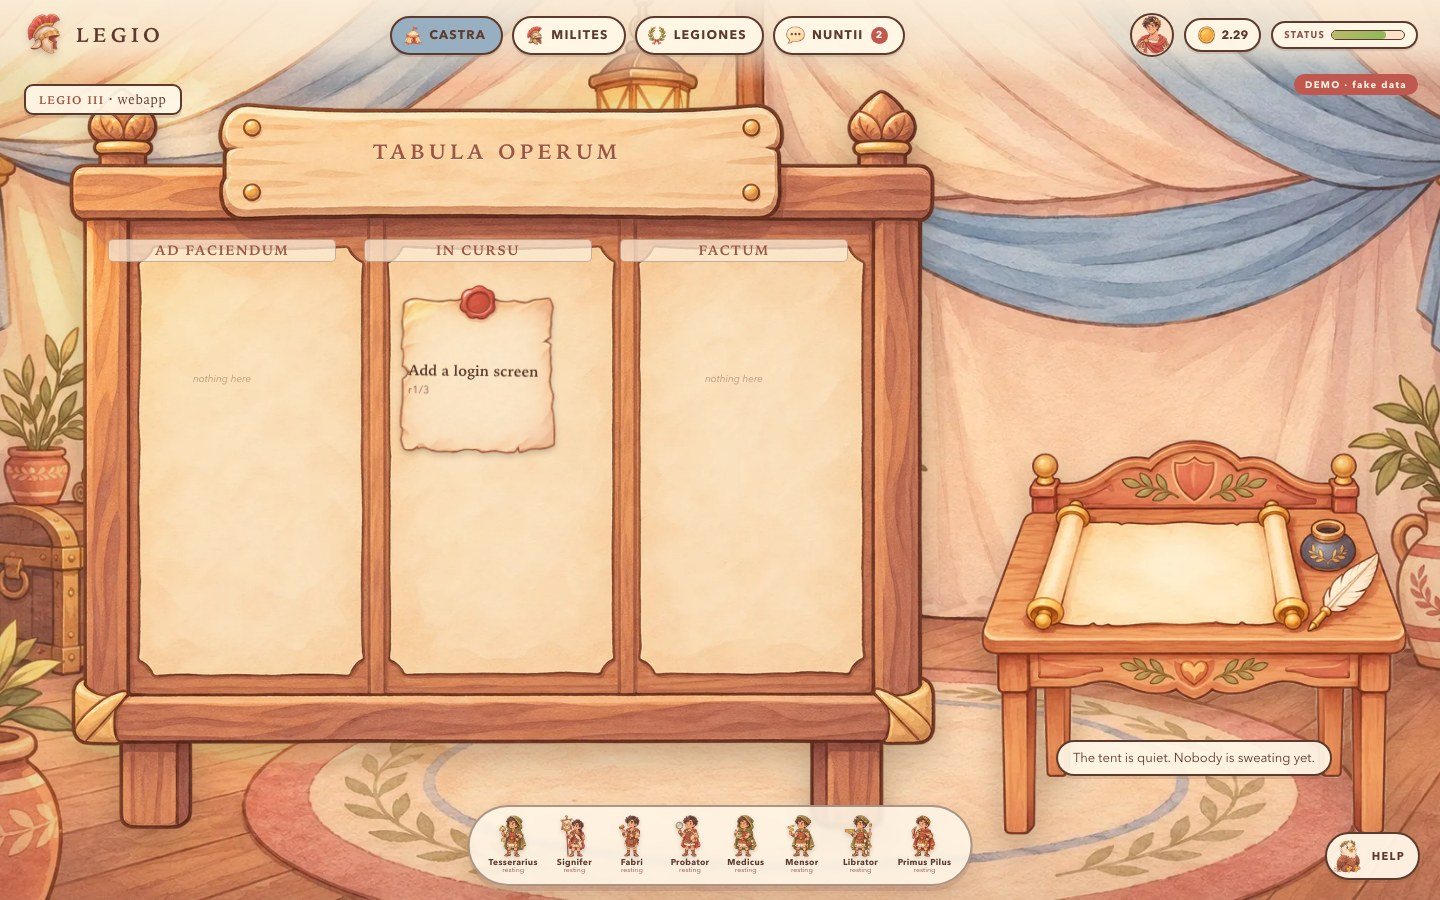
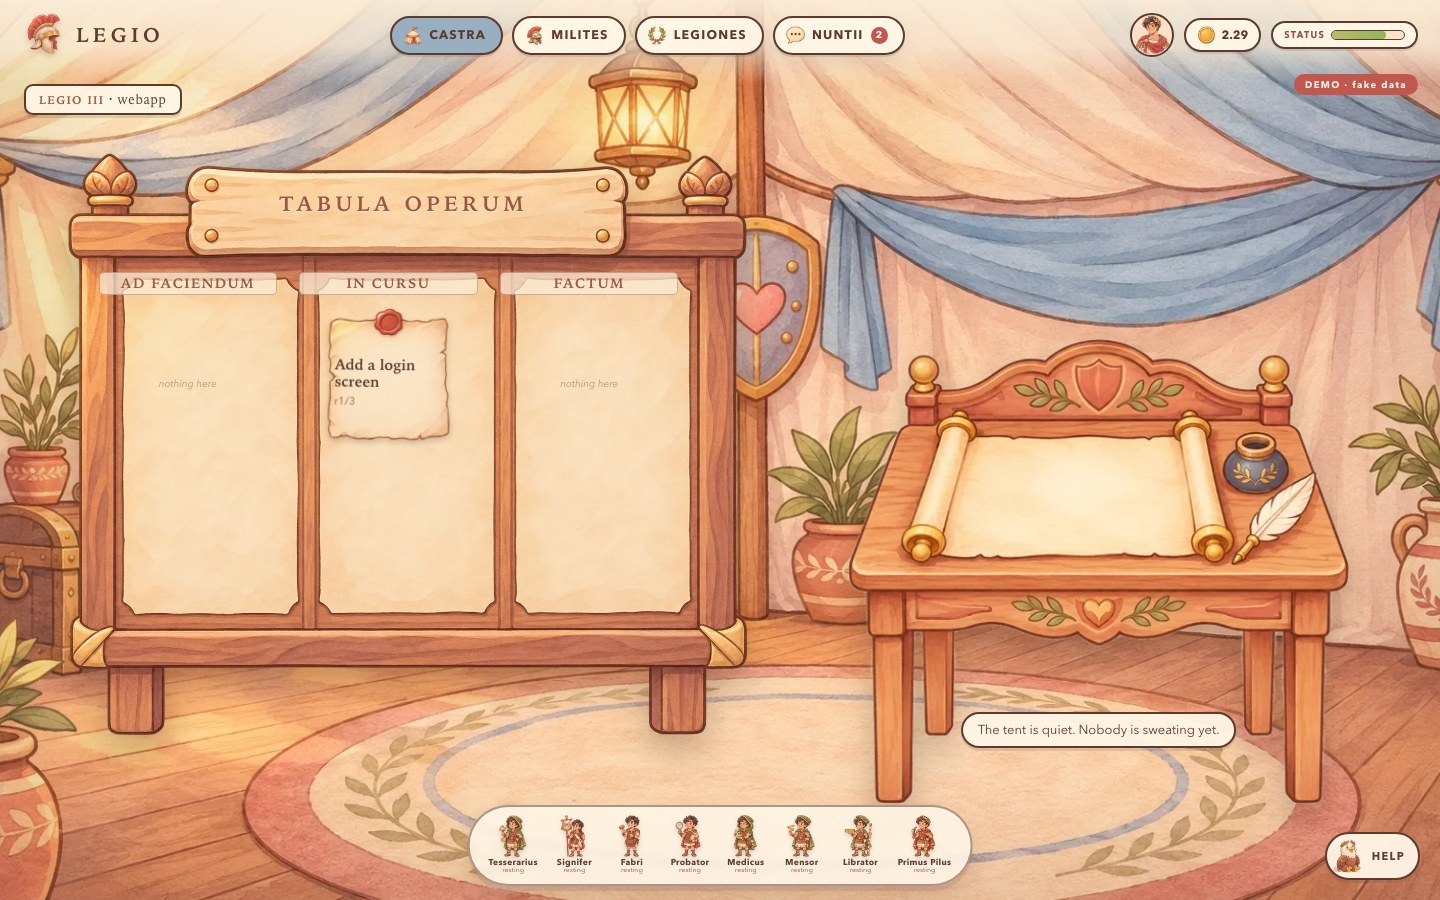
web: back to the reference tent layout, with a large job panel
Restore the proportions from the reference: the board takes about 55% of the
tent layout and the desk plus the working role about 45%, larger than the
enlarged-board pass but still readable (the notes keep the bigger type). The
quiet desk is larger too.

Clicking a note — or opening #/legion/<name>/job/<id> — now opens a wide job
panel: stage, round, gate, PR, cost, what waits on a human and every review
verdict, with a back link and the job id. No new art is needed for it: it is
the same parchment palette in CSS. Screenshots (tent, quiet, job) refreshed.

diff --git a/web/app.js b/web/app.js
@@ -432,8 +432,9 @@ function renderCast(project) {
 
 /* ---------------------------------------------------------------- modals */
 
-function openModal(html) {
+function openModal(html, wide = false) {
   modal.hidden = false;
+  $('.modal-card').classList.toggle('wide', wide);
   $('.modal-body').innerHTML = html;
 }
 
@@ -488,8 +489,10 @@ function showJob(jobId) {
   if (!found) return;
   const { project, job } = found;
   const reviews = Object.entries(job.reviews || {});
-  openModal(`<h2 class="modal-title">${esc(job.title)}</h2>
-    <p class="modal-sub">${esc(project.name)} · ${esc(job.id)} · #${esc(job.issue)}</p>
+  openModal(`<div class="job-panel" data-project="${esc(project.name)}">
+    <p class="job-kicker">TABULA · ${esc(project.name)} · job ${esc(job.id)}</p>
+    <h2 class="modal-title">${esc(job.title)}</h2>
+    <p class="modal-sub">issue #${esc(job.issue)}${job.pr ? ` · PR #${esc(job.pr)}` : ''}</p>
     <dl class="modal-facts">
       <div><dt>stage</dt><dd>${esc(job.stage)}</dd></div>
       <div><dt>round</dt><dd>${esc(job.round)}/${esc(job.round_limit)}</dd></div>
@@ -500,7 +503,11 @@ function showJob(jobId) {
     </dl>
     ${reviews.length ? `<h3 class="modal-h3">reviews</h3><ul class="modal-list">${
   reviews.map(([role, verdict]) => `<li><b>${esc(role)}</b><span>${esc(verdict)}</span></li>`).join('')}</ul>` : ''}
-    <p><a class="modal-link" href="#/legion/${enc(project.name)}">open the tent →</a></p>`);
+    <div class="job-foot">
+      <a class="modal-link" href="#/legion/${enc(project.name)}">← back to the tent</a>
+      <span class="job-id">${esc(job.id)}</span>
+    </div>
+  </div>`, true);
 }
 
 function showRole(role) {
@@ -520,6 +527,8 @@ function parseRoute() {
   if (!raw || raw === '/') return { view: 'camp' };
   let match = raw.match(/^\/legion\/([^/]+)\/cast$/);
   if (match) return { view: 'cast', name: match[1] };
+  match = raw.match(/^\/legion\/([^/]+)\/job\/([^/]+)$/);
+  if (match) return { view: 'tent', name: match[1], job: match[2] };
   match = raw.match(/^\/legion\/([^/]+)$/);
   if (match) return { view: 'tent', name: match[1] };
   return { view: 'camp' };
@@ -535,8 +544,12 @@ function render() {
   const project = state.data.projects.find((p) => p.name === state.route.name);
   if (!project) { location.hash = '#/'; return; }
   if (!project.ok) { renderTentError(project); return; }
-  if (state.route.view === 'cast') renderCast(project);
-  else renderTent(project);
+  if (state.route.view === 'cast') {
+    renderCast(project);
+    return;
+  }
+  renderTent(project);
+  if (state.route.job) showJob(state.route.job);
 }
 
 function fingerprint(data) {
@@ -595,7 +608,12 @@ document.addEventListener('click', (event) => {
     return;
   }
   const noteButton = event.target.closest('[data-job]');
-  if (noteButton) { showJob(noteButton.dataset.job); return; }
+  if (noteButton) {
+    const name = state.route.name;
+    if (name) location.hash = `#/legion/${enc(name)}/job/${enc(noteButton.dataset.job)}`;
+    else showJob(noteButton.dataset.job);
+    return;
+  }
   const roleButton = event.target.closest('[data-role-detail]');
   if (roleButton) showRole(roleButton.dataset.roleDetail);
 });

diff --git a/web/styles.css b/web/styles.css
@@ -440,12 +440,12 @@ a { color: inherit; }
 
 .tent-layout {
   position: absolute;
-  inset: 74px 0 88px 0;
+  inset: 78px 0 94px 0;
   z-index: 10;
   display: grid;
-  grid-template-columns: minmax(0, 68%) minmax(0, 32%);
-  gap: 0;
-  padding: 0 1.6%;
+  grid-template-columns: minmax(0, 55%) minmax(0, 45%);
+  gap: 1%;
+  padding: 0 2.2%;
 }
 
 .board-wrap {
@@ -453,7 +453,7 @@ a { color: inherit; }
   align-self: center;
   justify-self: center;
   width: 100%;
-  max-width: min(74vw, 1200px);
+  max-width: min(62vw, 1020px);
   max-height: 100%;
   aspect-ratio: 1331 / 1072;
 }
@@ -721,8 +721,8 @@ a { color: inherit; }
 .worker {
   position: relative;
   z-index: 2;
-  height: 92%;
-  max-height: 680px;
+  height: 98%;
+  max-height: 760px;
   width: auto;
   max-width: 100%;
   object-fit: contain;
@@ -780,8 +780,8 @@ a { color: inherit; }
 }
 
 .quiet .desk {
-  height: 62%;
-  max-height: 400px;
+  height: 74%;
+  max-height: 470px;
   width: auto;
   object-fit: contain;
   filter: drop-shadow(0 16px 16px rgba(60, 40, 20, 0.28));
@@ -989,6 +989,38 @@ a { color: inherit; }
   border-radius: 22px;
   background: var(--paper);
   box-shadow: 0 10px 0 rgba(93, 58, 46, 0.16), 0 30px 60px rgba(0, 0, 0, 0.25);
+}
+
+.modal-card.wide { width: min(940px, 95vw); }
+
+.job-panel .modal-facts { grid-template-columns: repeat(3, minmax(0, 1fr)); }
+
+.job-kicker {
+  margin: 0 0 2px;
+  font-size: 9.5px;
+  letter-spacing: 0.16em;
+  text-transform: uppercase;
+  color: var(--brick);
+}
+
+.job-panel .modal-title { font-size: clamp(20px, 2.2vw, 28px); }
+
+.job-panel .modal-list { grid-template-columns: repeat(2, minmax(0, 1fr)); }
+
+.job-foot {
+  display: flex;
+  justify-content: space-between;
+  align-items: center;
+  gap: 12px;
+  margin-top: 18px;
+  padding-top: 12px;
+  border-top: 1.5px dashed rgba(93, 58, 46, 0.28);
+}
+
+.job-id {
+  font-size: 10px;
+  letter-spacing: 0.06em;
+  color: var(--ink-2);
 }
 
 .modal-close {

diff --git a/web/README.md b/web/README.md
@@ -36,9 +36,12 @@ lit.
 **MILITES.** The eight roles with their name, function, tier and the duty line
 from their role file; the one on duty is ringed in brass.
 
-Notes are clickable (job facts), the cast chips are clickable (role duty), and
+Notes are clickable: a wide job panel opens with the stage, round, gate, PR,
+cost, what waits on a human and the review verdicts, and it has a deep link
+(`#/legion/<name>/job/<id>`). The cast chips are clickable (role duty), and
 `M` / `L` / `N` / `Esc` open the cast, the legions, the waiting list and close a
-panel.
+panel. The job panel is drawn from the same CSS parchment palette — no extra
+art is needed for it.
 
 ## Data (read-only, by construction)
 
@@ -119,5 +122,5 @@ missing job folder is harmless).
 
 ## Screenshots
 
-`docs/camp.jpg`, `docs/tent.jpg` and `docs/cast.jpg` were taken from
-`--demo` mode at 1440x900.
+`docs/camp.jpg`, `docs/tent.jpg`, `docs/cast.jpg`, `docs/quiet.jpg` and
+`docs/job.jpg` were taken from `--demo` mode at 1440x900.
